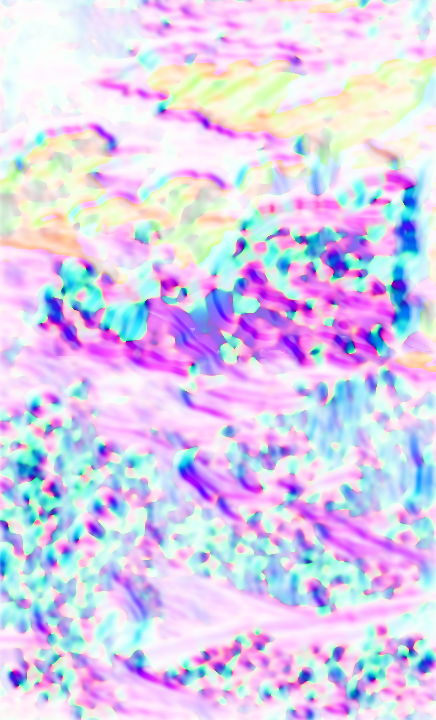
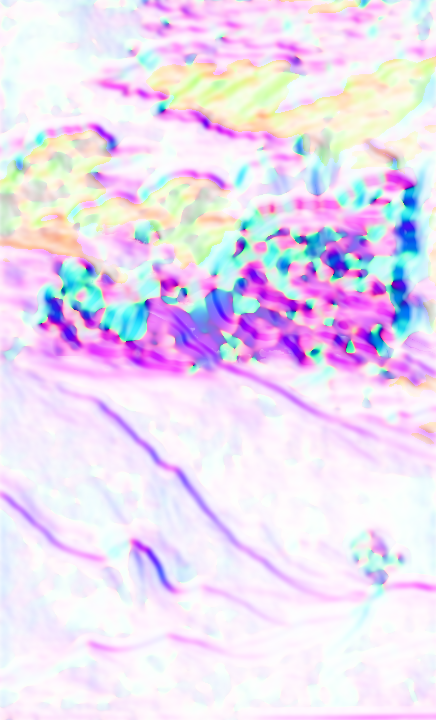
Phone day: Michelangelo's bare primordial earth instead of a storybook garden
The tall version's ground is repainted (tools/ground.py: a painter's
layout sketch, then a global pass and full-res refinement): quiet ochre
hills and soft blue ridges in mist, no flowers or path; Adam's hill fades
into the slope and the ground beneath God is haze and distant hills.

diff --git a/public/main.js b/public/main.js
@@ -45,8 +45,8 @@ const load = src => new Promise((res, rej) => { const i = new Image(); i.onload 
 // each picture is one painting grown past Michelangelo's frame; wide and tall screens are cut from it around its focus
 const shape = innerWidth / innerHeight >= .8 ? 'wide' : 'tall';
 if (!gl) { root.classList.add('no-gl'); ready(); }
-else fetch('/img/scene.json?v=1791970508').then(r => r.json()).then(meta =>
-  Promise.all([shape === 'wide' ? 'night-wide' : 'night', shape === 'wide' ? 'night-wide-flow' : 'night-flow', shape === 'wide' ? 'day' : 'day-tall', shape === 'wide' ? 'day-flow' : 'day-tall-flow', shape === 'wide' ? 'supper' : 'supper-tall', shape === 'wide' ? 'supper-flow' : 'supper-tall-flow', shape === 'wide' ? 'day-rift' : 'day-tall-rift', shape === 'wide' ? 'supper-aura' : 'supper-tall-aura'].map(n => load(`/img/${n}.webp?v=1791970508`)))
+else fetch('/img/scene.json?v=1791975384').then(r => r.json()).then(meta =>
+  Promise.all([shape === 'wide' ? 'night-wide' : 'night', shape === 'wide' ? 'night-wide-flow' : 'night-flow', shape === 'wide' ? 'day' : 'day-tall', shape === 'wide' ? 'day-flow' : 'day-tall-flow', shape === 'wide' ? 'supper' : 'supper-tall', shape === 'wide' ? 'supper-flow' : 'supper-tall-flow', shape === 'wide' ? 'day-rift' : 'day-tall-rift', shape === 'wide' ? 'supper-aura' : 'supper-tall-aura'].map(n => load(`/img/${n}.webp?v=1791975384`)))
     .then(ims => paint(gl, ims, meta[shape])))
   .catch(e => { console.error(String(e && e.message || e)); root.classList.add('no-gl'); ready(); });   // log, then fall back
 

diff --git a/public/index.html b/public/index.html
@@ -19,7 +19,7 @@
 <link rel="preconnect" href="https://fonts.googleapis.com">
 <link rel="preconnect" href="https://fonts.gstatic.com" crossorigin>
 <link rel="stylesheet" href="https://fonts.googleapis.com/css2?family=Cinzel:wght@400;500&family=Cormorant+Garamond:ital,wght@0,300;0,400;1,300;1,400&display=swap">
-<link rel="stylesheet" href="/style.css?v=1791970508">
+<link rel="stylesheet" href="/style.css?v=1791975384">
 <script>document.documentElement.classList.add('js')</script>
 </head>
 <body>
@@ -85,6 +85,6 @@
 
 
 <noscript><style>.reveal,.reveal-words,.display .line>span{opacity:1!important;transform:none!important}</style></noscript>
-<script type="module" src="/main.js?v=1791970508"></script>
+<script type="module" src="/main.js?v=1791975384"></script>
 </body>
 </html>

diff --git a/tools/ground.py b/tools/ground.py
@@ -11,21 +11,48 @@ m = np.clip((yy - 1560) / 90., 0, 1)                                       # eve
 m = np.maximum(m, np.clip((yy - 1430) / 90., 0, 1) * np.clip((xx - 1000) / 120., 0, 1))   # and the ground beneath God
 m *= 1 - np.asarray(fig.filter(ImageFilter.MaxFilter(15)).filter(ImageFilter.GaussianBlur(6)), np.float32) / 255
 mask = Image.fromarray((m * 255).astype(np.uint8))
-# start from the current ground, blurred and quieted: keep its light, lose its storybook details
-base = img.filter(ImageFilter.GaussianBlur(28))
-bn = np.asarray(base, np.float32); l = bn.mean(2, keepdims=True); bn = l + (bn - l) * .55
-bn = bn * np.array([1.0, .96, .86]) 
-init = Image.composite(Image.fromarray(np.clip(bn, 0, 255).astype(np.uint8)), img, mask)
-P = ("Michelangelo, Sistine Chapel ceiling fresco: the bare primordial earth on the day of creation, sculptural sweeping slopes of "
-     "ochre and umber earth, grey-green rock, a few sparse dark tufts, a pale misty plain stretching to soft distant hills, "
-     "monumental and quiet, muted earthy fresco palette, chalky buon fresco texture, masterpiece")
-N = ("flowers, roses, garden, path, road, trees, forest, bushes, houses, village, people, figure, animal, bright colours, saturated, "
-     "storybook, children's book, cartoon, illustration, fantasy, 3d render, photo, text, frame, border")
+# a painter's layout sketch: distant blue mountains under God, a pale receding plain, Adam's earthen hill sweeping
+# down on the left, dark earth and rocks in front
+rng = np.random.default_rng(seed)
+def noise(sc):
+    n = rng.random((H // sc + 2, W // sc + 2)).astype(np.float32)
+    return np.asarray(Image.fromarray((n * 255).astype(np.uint8)).resize((W, H), Image.BICUBIC), np.float32) / 255
+n1, n2 = noise(40), noise(9)
+sk = np.zeros((H, W, 3), np.float32)
+hz = 1660 + 25 * np.sin(xx / W * 5 + 1)                                       # the horizon
+mt = hz - 70 * (.5 + .5 * np.sin(xx / W * 7 + 2)) * (.6 + .4 * n1)           # mountain ridges
+sky = np.asarray(img, np.float32)
+sk[:] = sky
+mount = (yy > mt) & (yy <= hz)
+sk[mount] = (np.array([128, 146, 172]) * (.9 + .2 * n1[..., None]))[mount]
+t = np.clip((yy - hz) / (H - hz), 0, 1)[..., None]
+plain = np.array([182, 172, 132]) * (1 - t) + np.array([128, 118, 84]) * t
+sk = np.where((yy > hz)[..., None], plain * (.85 + .3 * n1[..., None]) * (.94 + .12 * n2[..., None]), sk)
+hill = yy > 1560 + (xx * .78)                                                 # Adam's hill sweeping down to the right
+hl = np.array([104, 96, 60]) * (.8 + .4 * n1[..., None]) * (.9 + .2 * n2[..., None])
+edge = np.clip(1 - np.abs(yy - (1560 + xx * .78)) / 30., 0, 1)[..., None]
+sk = np.where(hill[..., None], hl + edge * 40, sk)
+fg = yy > 2650 + 60 * np.sin(xx / W * 4)
+sk = np.where(fg[..., None], np.array([78, 64, 44]) * (.8 + .4 * n1[..., None]) * (.9 + .2 * n2[..., None]), sk)
+for _ in range(9):                                                          # rocks
+    cx, cy, rr = rng.uniform(0, W), rng.uniform(2300, H), rng.uniform(60, 180)
+    rock = ((xx - cx) / (rr * 1.5)) ** 2 + ((yy - cy) / rr) ** 2 < 1
+    shade = np.clip((yy - (cy - rr)) / (2 * rr), 0, 1)[..., None]
+    sk = np.where(rock[..., None], np.array([150, 140, 118]) * (1.1 - .6 * shade) * (.9 + .2 * n2[..., None]), sk)
+sk = np.asarray(Image.fromarray(np.clip(sk, 0, 255).astype(np.uint8)).filter(ImageFilter.GaussianBlur(5)), np.float32)
+init = Image.composite(Image.fromarray(sk.astype(np.uint8)), img, mask)
+init.resize((486, 802)).save(out.replace('.png', '-sketch.jpg'), quality=85)
+P = ("Italian Renaissance fresco landscape: bare earthen hills of ochre and umber, grey-green grass, weathered rocky outcrops, "
+     "a pale misty plain receding to soft blue distant mountains, quiet and monumental, muted earthy palette, chalky fresco texture, "
+     "fine painterly detail, masterpiece")
+N = ("body, nude, muscles, torso, limbs, face, people, figure, animal, flowers, roses, garden, path, road, trees, forest, houses, "
+     "village, bright colours, saturated, storybook, children's book, cartoon, illustration, fantasy, 3d render, photo, text, frame, "
+     "border, blurry, mud, smear")
 pipe = StableDiffusionXLInpaintPipeline.from_pretrained("diffusers/stable-diffusion-xl-1.0-inpainting-0.1", torch_dtype=torch.float16, variant="fp16").to("mps")
 pipe.enable_attention_slicing(); pipe.vae.enable_tiling()
 gw, gh = 832, round(832 * H / W / 8) * 8
 r = pipe(prompt=P, negative_prompt=N, image=init.resize((gw, gh), Image.LANCZOS), mask_image=mask.resize((gw, gh), Image.LANCZOS),
-         width=gw, height=gh, num_inference_steps=40, guidance_scale=7.5, strength=.9, generator=torch.Generator("cpu").manual_seed(seed)).images[0]
+         width=gw, height=gh, num_inference_steps=40, guidance_scale=7.5, strength=.72, generator=torch.Generator("cpu").manual_seed(seed)).images[0]
 g1 = np.asarray(r.resize((W, H), Image.LANCZOS), np.float32)
 mm = (m)[..., None]
 step = np.asarray(img, np.float32) * (1 - mm) + g1 * mm
